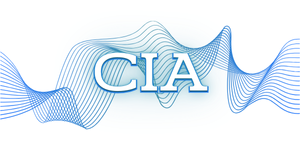
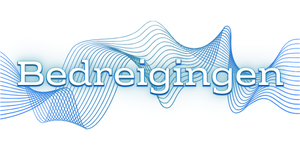
Adjusted images

Changed region(s): [[0.03, 0.2933, 0.96, 0.6667]]

diff --git a/CIA.html b/CIA.html
@@ -41,7 +41,7 @@
         
         <!-- Image -->
         <div class="decor">    
-            <img src="" alt="Decorative header">
+            <img src="images/HeadingCH1 .png" alt="Decorative header">
         </div>
 
         <!-- Hoofdinhoud -->

diff --git a/styleCIA.css b/styleCIA.css
@@ -185,7 +185,9 @@ body {
 
 /* Image */
 .decor {
-   
+   margin-left: 25px;
+   margin-top: 0;
+   position: relative;
 }
 
 /* Footer */
